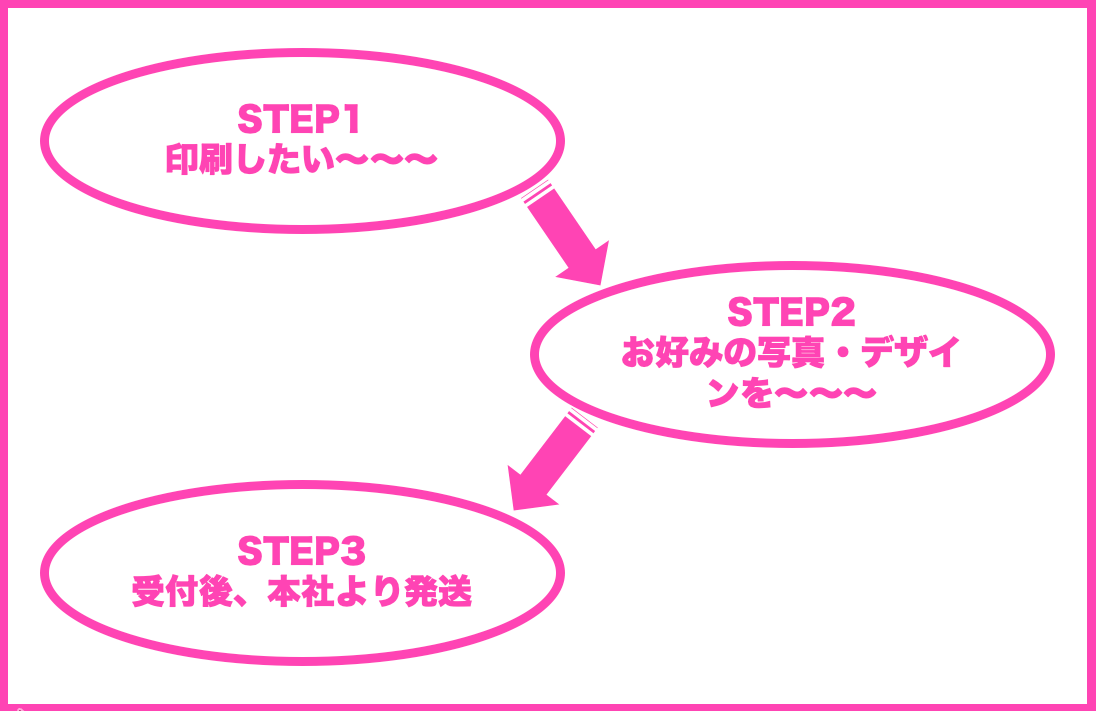
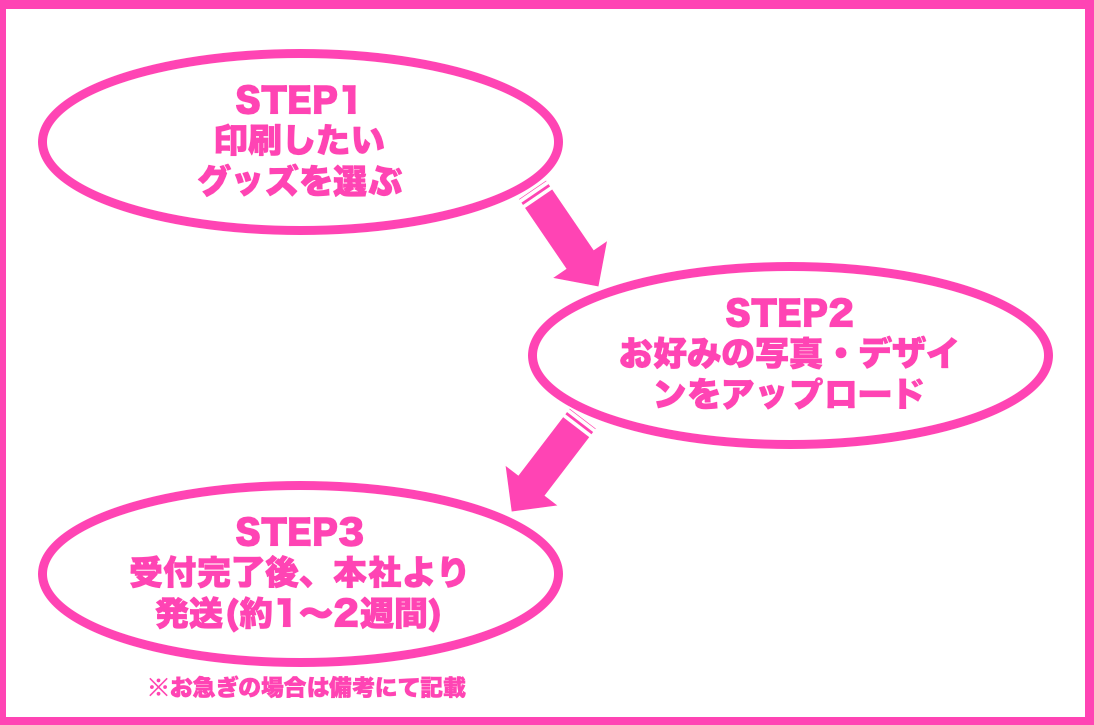
山本さん指摘対応

diff --git a/index.html b/index.html
@@ -11,6 +11,7 @@
   <link rel="stylesheet" href="css/responsive.css">
   <link href="https://fonts.googleapis.com/css2?family=M+PLUS+Rounded+1c:wght@700&display=swap" rel="stylesheet">
   <link href="https://fonts.googleapis.com/css2?family=Kosugi+Maru&display=swap" rel="stylesheet">
+  <link href="https://use.fontawesome.com/releases/v5.6.1/css/all.css" rel="stylesheet">
 </head>
 <body>
   <header>
@@ -20,7 +21,7 @@
           <img src="img/sample/imglogo2.jpg" alt="a">
         </div>
         <div class="title-right">
-          <p class="online">オンライン代行受付</p>
+          <p class="online"> オンライン代行受付</p>
         </div>
       </div>
       <div class="clear"></div>
@@ -28,21 +29,28 @@
   </header>
         
   <div class="main-title fuchidori">
-    <p class="who">(事業者様、団体様向け。<br class="sp_br" >個人ユーザー様も可能)</p>
+    <div class="fukidasi">
+      <p class="who">-事業者様、団体様向け-
+        <br>(個人ユーザー様も可能)</p>
+        <div class="balloon2-top">
+          <p>１個の注文から受付けOK</p>
+        </div>
+    </div>
+
     <h2 class="enter">あなたの好きな写真・デザインを、<br class="sp_br" >グッズにプリントしてみませんか？</h2>
     <h2>世界に一つだけ、あなただけのもの</h2>
 
     <div class="ribbon6">
-      <h3>ギフトにもオススメ♪</h3>
+      <h3><i class="fas fa-gift"></i>ギフトにもオススメ♪</h3>
     </div>
 
     <div class="main-top">
       <div class="grid wrapper">
         <div class="item">
-          <img src="img/S__6553645.jpg" alt="#">
+          <img src="img/S__7069717.jpg" alt="#">
         </div>
         <div class="item">
-          <img src="img/S__6553662.jpg" alt="#">
+          <img src="img/S__7069719.jpg" alt="#">
         </div>
         <div class="item">
           <img src="img/S__6553664.jpg" alt="#">
@@ -101,15 +109,15 @@
       <div class="container">
         <div class="foot-right">
           <ul class="form">
-            <li>遠方の方や数量が多い方はまとめてやります</li>
-            <li>写真・デザインを頂ければやります</li>
-            <li>発送は本社よりさせて頂きます</li>
+            <li>代行して作成致します(代行手数料なし)</li>
+            <li>写真、デザインをお願い致します</li>
+            <li>本社にて作成、発送させて頂きます</li>
             <li>個人の申し込みも可能です</li>
-            <li>不明点がありましたら気軽にお問い合わせください</li>
+            <li>ご不明点がありましたらお気軽にお問い合わせください</li>
           </ul>
         </div>
         <div class="foot-left">
-          <img src="img/step.png" alt="#">
+          <img src="img/step2.png" alt="#">
         </div>
       </div>
     </div>
@@ -138,12 +146,12 @@
         <h2>導入実績</h2>
         <p>全国のイベント会場・商業施設にその場で作成できる自動販売機を設置中！</p>
           <div class="container">
-            <div class="foot-right">
-              <ul class="form">
-                <li>導入実績の写真貼る</li>
-              </ul>
+            <div class="wrapper">
+              <div class="zisseki">
+                <img src="img/zisseki.png" alt="#">
+              </div>
             </div>
-            <!-- <div class="foot-left">
+              <!-- <div class="foot-left">
               <img src="img/S__6643736.jpg" alt="#">
             </div> -->
           </div>

diff --git a/css/styles.css b/css/styles.css
@@ -8,8 +8,50 @@
 
 .online{
   font-size: 45px;
-  /* padding: 160px 100px 30px 0; */
+  padding: 0px 0px 0px 20px;
   font-family: 'M PLUS Rounded 1c', sans-serif;
+}
+
+.balloon2-left {
+  position: relative;
+  display: inline-block;
+  margin: 1.5em 0 1.5em 15px;
+  padding: 7px 10px;
+  min-width: 120px;
+  max-width: 100%;
+  color: #ff69b4;
+  font-size: 16px;
+  background: #FFF;
+  border: solid 3px #ff69b4;
+  box-sizing: border-box;
+  border-radius: 10px;
+}
+
+.balloon2-left:before {
+  content: "";
+  position: absolute;
+  top: 50%;
+  left: -24px;
+  margin-top: -12px;
+  border: 12px solid transparent;
+  border-right: 12px solid #FFF;
+  z-index: 2;
+}
+
+.balloon2-left:after {
+  content: "";
+  position: absolute;
+  top: 50%;
+  left: -30px;
+  margin-top: -14px;
+  border: 14px solid transparent;
+  border-right: 14px solid #ff69b4;
+  z-index: 1;
+}
+
+.balloon2-left p {
+  margin: 0;
+  padding: 0;
 }
 
 .top-title{
@@ -42,7 +84,7 @@
 
 .who{
   font-size: 30px;
-  padding:10px 0 70px 0;
+  padding:10px 0 0px 0;
 }
 
 .main-title{
@@ -52,6 +94,10 @@
   text-align: center;
   padding:0 0 7% 0;
   font-family: 'M PLUS Rounded 1c', sans-serif;
+}
+
+.fukidasi{
+  margin-bottom: 70px;
 }
 
 .fuchidori h2{
@@ -70,6 +116,10 @@
   margin: 0;
 }
 
+.fas{
+  margin-right: 7px;
+}
+
 .url{
   font-size: 23px;
 }
@@ -81,12 +131,12 @@
   padding: 7px 10px;
   min-width: 120px;
   max-width: 100%;
-  color: white;
+  color: #ff69b4;
   font-size: 16px;
-  background: pink;
-  border: solid 2px white;
+  background: #FFF;
+  border: solid 3px #ff69b4;
   box-sizing: border-box;
-  border-radius: 15px;
+  border-radius: 7px;
 }
 
 .balloon2-top:before {
@@ -96,7 +146,7 @@
   left: 50%;
   margin-left: -15px;
   border: 12px solid transparent;
-  border-bottom: 12px solid pink;
+  border-bottom: 12px solid #fff;
   z-index: 2;
 }
 
@@ -107,7 +157,7 @@
   left: 50%;
   margin-left: -17px;
   border: 14px solid transparent;
-  border-bottom: 14px solid white;
+  border-bottom: 14px solid #ff69b4;
   z-index: 1;
 }
 

diff --git a/css/responsive.css b/css/responsive.css
@@ -8,6 +8,10 @@
     margin-top: 10px;
   }
 
+  .zisseki img{
+    width: 100%;
+  }
+
   .setumei-gazou img{
     width: auto;
     margin-top: 10px;
